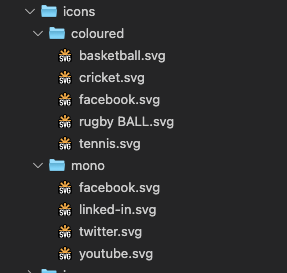
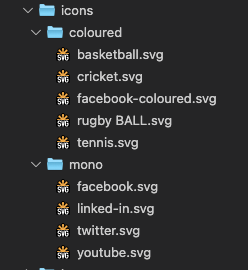
Updates to README.md

diff --git a/index.html b/index.html
@@ -9,7 +9,7 @@
     <link rel="stylesheet" href="/public/build/css/bundle.css">
 </head>
 <body>
-
+    
     <div class="icon-demo icon-demo-mono">
         <span class="svg-facebook"></span>
         <span class="svg-linked-in"></span>
@@ -22,7 +22,7 @@
         <span class="svg-cricket"></span>
         <span class="svg-rugby-ball"></span>
         <span class="svg-tennis"></span>
-        <span class="svg-facebook"></span>
+        <span class="svg-facebook-coloured"></span>
     </div>
 
     <script src="/public/build/js/bundle.js"></script>

diff --git a/README.md b/README.md
@@ -1,6 +1,6 @@
 # Icon spritesheet with Laravel Mix
 
-SVG icons can be served in multiple ways and one of them is utilising svg fragment identifiers. This sample uses Fragment identifier + CSS 3 combination. This means that there is no need to render SVG spritesheet at the top of the document and then use `<use></use>` tag. The following Sample assumes that spritesheet is kept under the same domain. Otherwise CORS policy will not allow this.
+SVG icons can be served in multiple ways and one of them is utilising svg fragment identifiers. This sample uses fragment identifier + CSS3 combination. This means that there is no need to render SVG spritesheet at the top of the document and then use `<use></use>` tag. The following sample assumes that spritesheet is kept under the same domain. Otherwise CORS policy will not allow this.
 
 **Outcome:**
 
@@ -15,6 +15,7 @@ SVG icons can be served in multiple ways and one of them is utilising svg fragme
 6. Separation of concerns ( SVG spritesheet is kept separate from main page HTML )
 7. Unlikely to crash with caching plugins as icons are not modified ( w3 total caches as an example )
 8. System will render svg even if javascript is disabled ( for systems that currently use JS to modify icons )
+9. Reduces amount or requests ( 2 requests for all mono and coloured icons )
 
 ## Workflow
 1. Gather icons from design
@@ -24,7 +25,7 @@ SVG icons can be served in multiple ways and one of them is utilising svg fragme
 
 
 ## Icons
-There are very little prerequisites for icons. Icons should have a meaningful name as svg file name is used to form class name for the icon. icon names can contain spaces if needed, however Laravel Mix will slugify the file name when spritesheet is created.
+There are very little prerequisites for icons. Icons should have a meaningful name as svg file name is used to form class name for the icon. icon names can contain spaces if needed, however Laravel Mix will slugify the file name when spritesheet is created. Icon names should not be the same between `mono` and `coloured`. Consider adding a postfix in these situations.
 
 For example :
 
@@ -42,7 +43,7 @@ Avoid using numbers as first characters of the svg name. Class Names with number
 
 
 ### Icon folder structure
-This is important as Laravel Mix will distingusih mono icons from coloured.
+This is important as this is how Laravel Mix will distingusih mono icons from coloured.
 Why the separation?
 
 Coloured icons are using `background-image` property to render icon. In contrast mono icons use `webkit-mask` and icon colour is then controlled as desired using `background` or `background-color` property.
@@ -53,11 +54,11 @@ Sample Structure:
 
 
 ### Icon sprites
-There are to icon sprites:
+There are two icon sprites:
 1. `coloured-icon-sprite.svg`
 2. `mono-icon-sprite.svg`
 
-Icon sets are kept seperately, however, this can be combined if neeeded. Technically icons can have the same name when we think of `mono` and `coloured`, this is because each type if icon gets a postfix behind the scenes `-mono` and `-coloured` respectively. Whilst this example assumes same name icon for mono and coloured (facebook), it is advised to keep them separate. (facebook-mono or facebook-coloured as an example). 
+Icon sets are kept seperately.
 
 Sample of mono spritesheet:
 
@@ -99,7 +100,7 @@ Sample of coloured spritesheet:
 
 ## CSS
 
-Laravel mix first creates two mixes for each type of icons, after this - both CSS files are combined into `icons.css` as due to their CSS properties, the y do not crash even with same icon names.
+Laravel mix first creates CSS for each type of icons, after this - both CSS files are combined into `icons.css`.
 
 ```css
 *[class^="svg-"] {
@@ -127,20 +128,19 @@ Laravel mix first creates two mixes for each type of icons, after this - both CS
     background-image: url("/public/build/coloured-icon-sprite.svg#svg-cricket-coloured");
   }
   
-  .svg-facebook {
+  .svg-facebook-coloured {
     background-image: url("/public/build/coloured-icon-sprite.svg#svg-facebook-coloured");
   }
   ```
 
-  Above is an example of a combined `icons.css`. Note that there are lines for the same icon `svg-facebook`. This is because we have facebook icon `coloured` and `mono`. Nothing breaks as styles are applied in a cascading style as one would expect.
+  Above is an example of a combined `icons.css`.
 
 ## Usage
 
 1. Add `icons.css` to the document
    
-   ```html
-       <link rel="stylesheet" href="/public/build/css/icons.css">
-    ```
+`<link rel="stylesheet" href="/public/build/css/icons.css">`
+
 
 2. Reference icon using class name
 
@@ -154,7 +154,7 @@ Laravel mix first creates two mixes for each type of icons, after this - both CS
     <span class="svg-cricket"></span>
     <span class="svg-rugby-ball"></span>
     <span class="svg-tennis"></span>
-    <span class="svg-facebook"></span> 
+    <span class="svg-facebook-coloured"></span> 
 ```
 
 Provided that URL's are correct and that the spritesheet is available - icons will render.
@@ -173,3 +173,9 @@ Used to delete separate CSS spritesheets once they are combined into one.
 
 
 ## DEMO
+1. Create and open directory
+2. ``` git clone git@github.com:ivars-melecis/laravel-mix-spritesheet.git .``` or download zip
+3. `npm i` from root directory
+4. `npm run watch`
+5. `npm run serve` (in a different tab). Needed as simple opening HTML file will not work due to CORS
+6. Open browser as specified in serve tab
